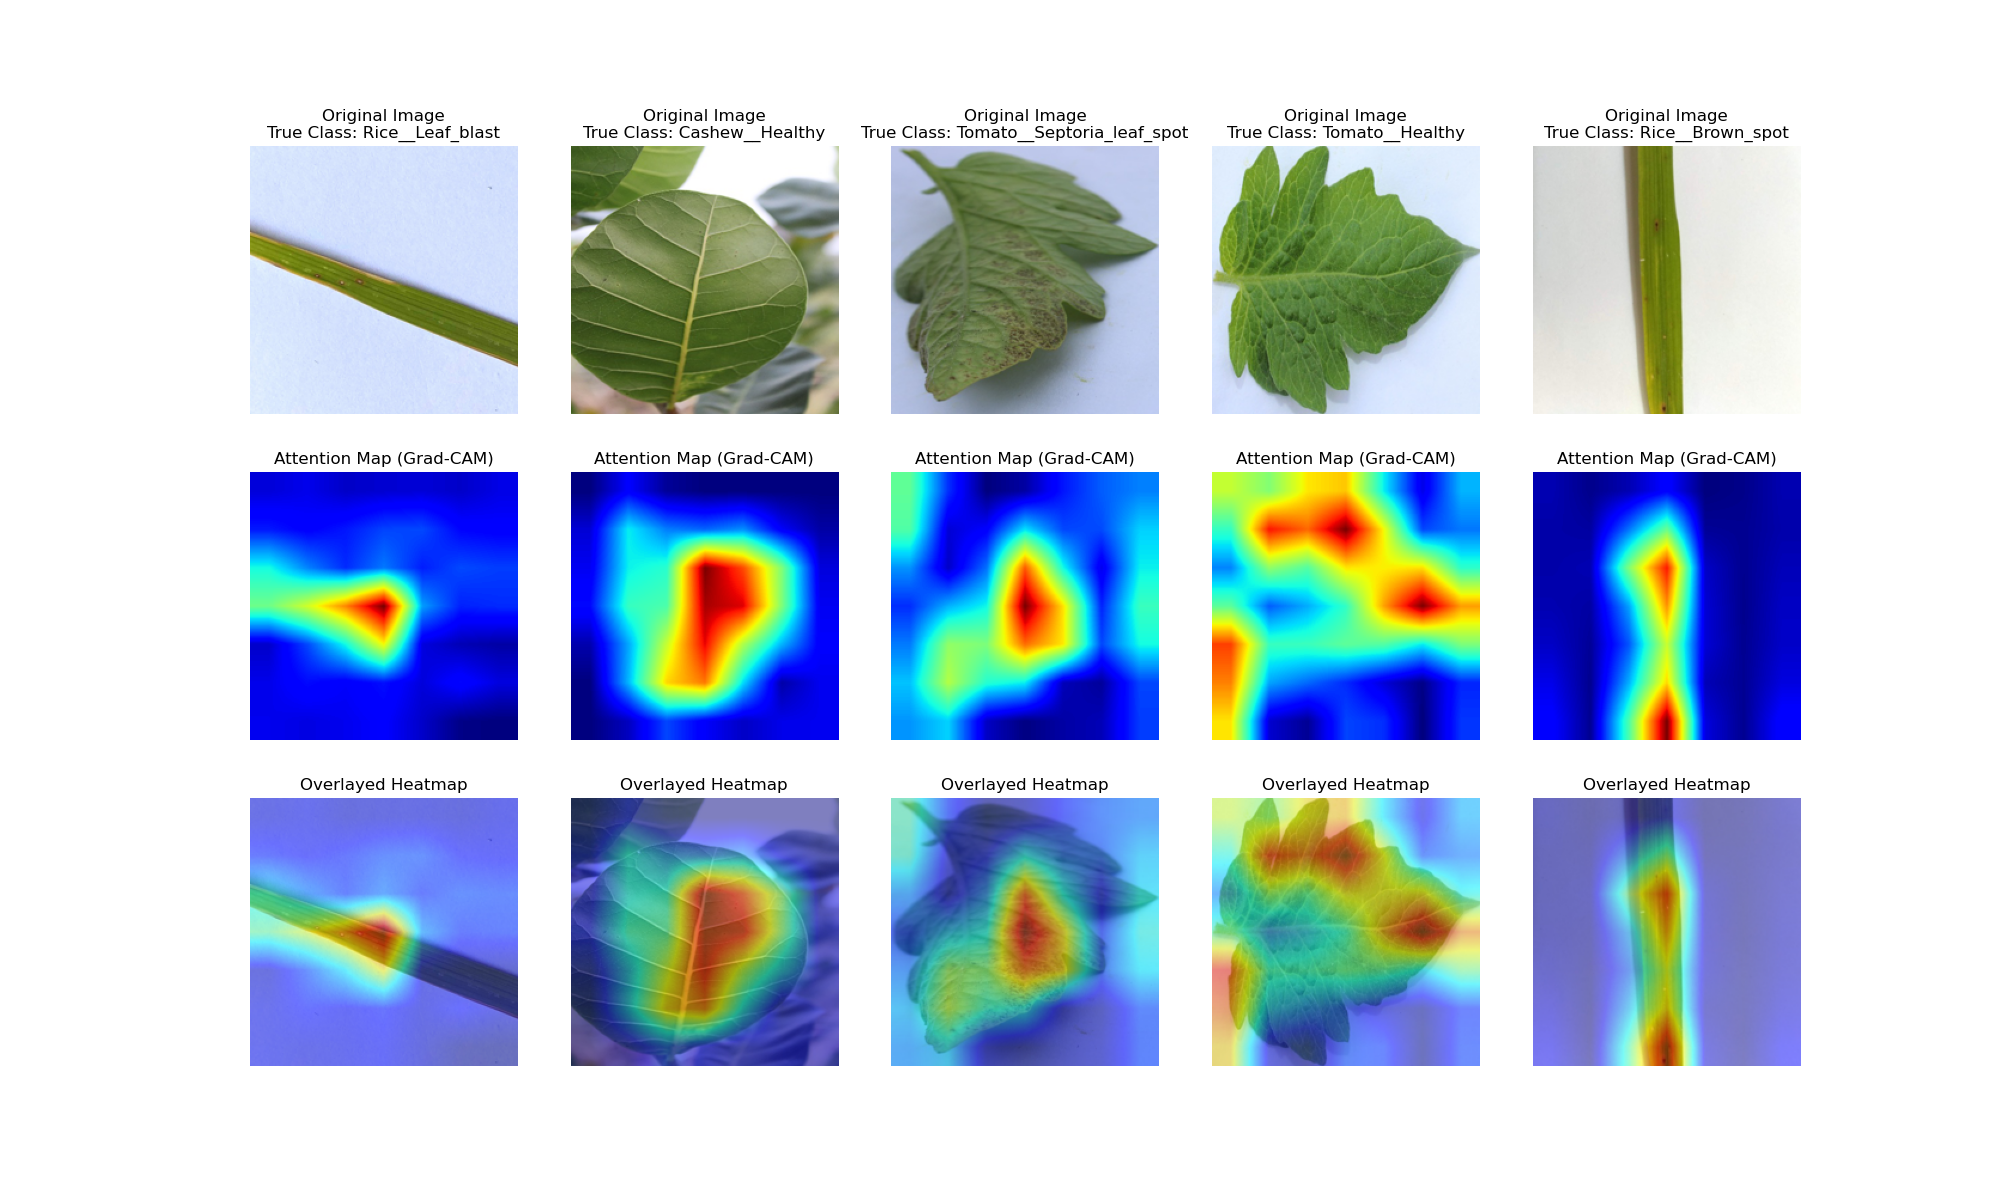
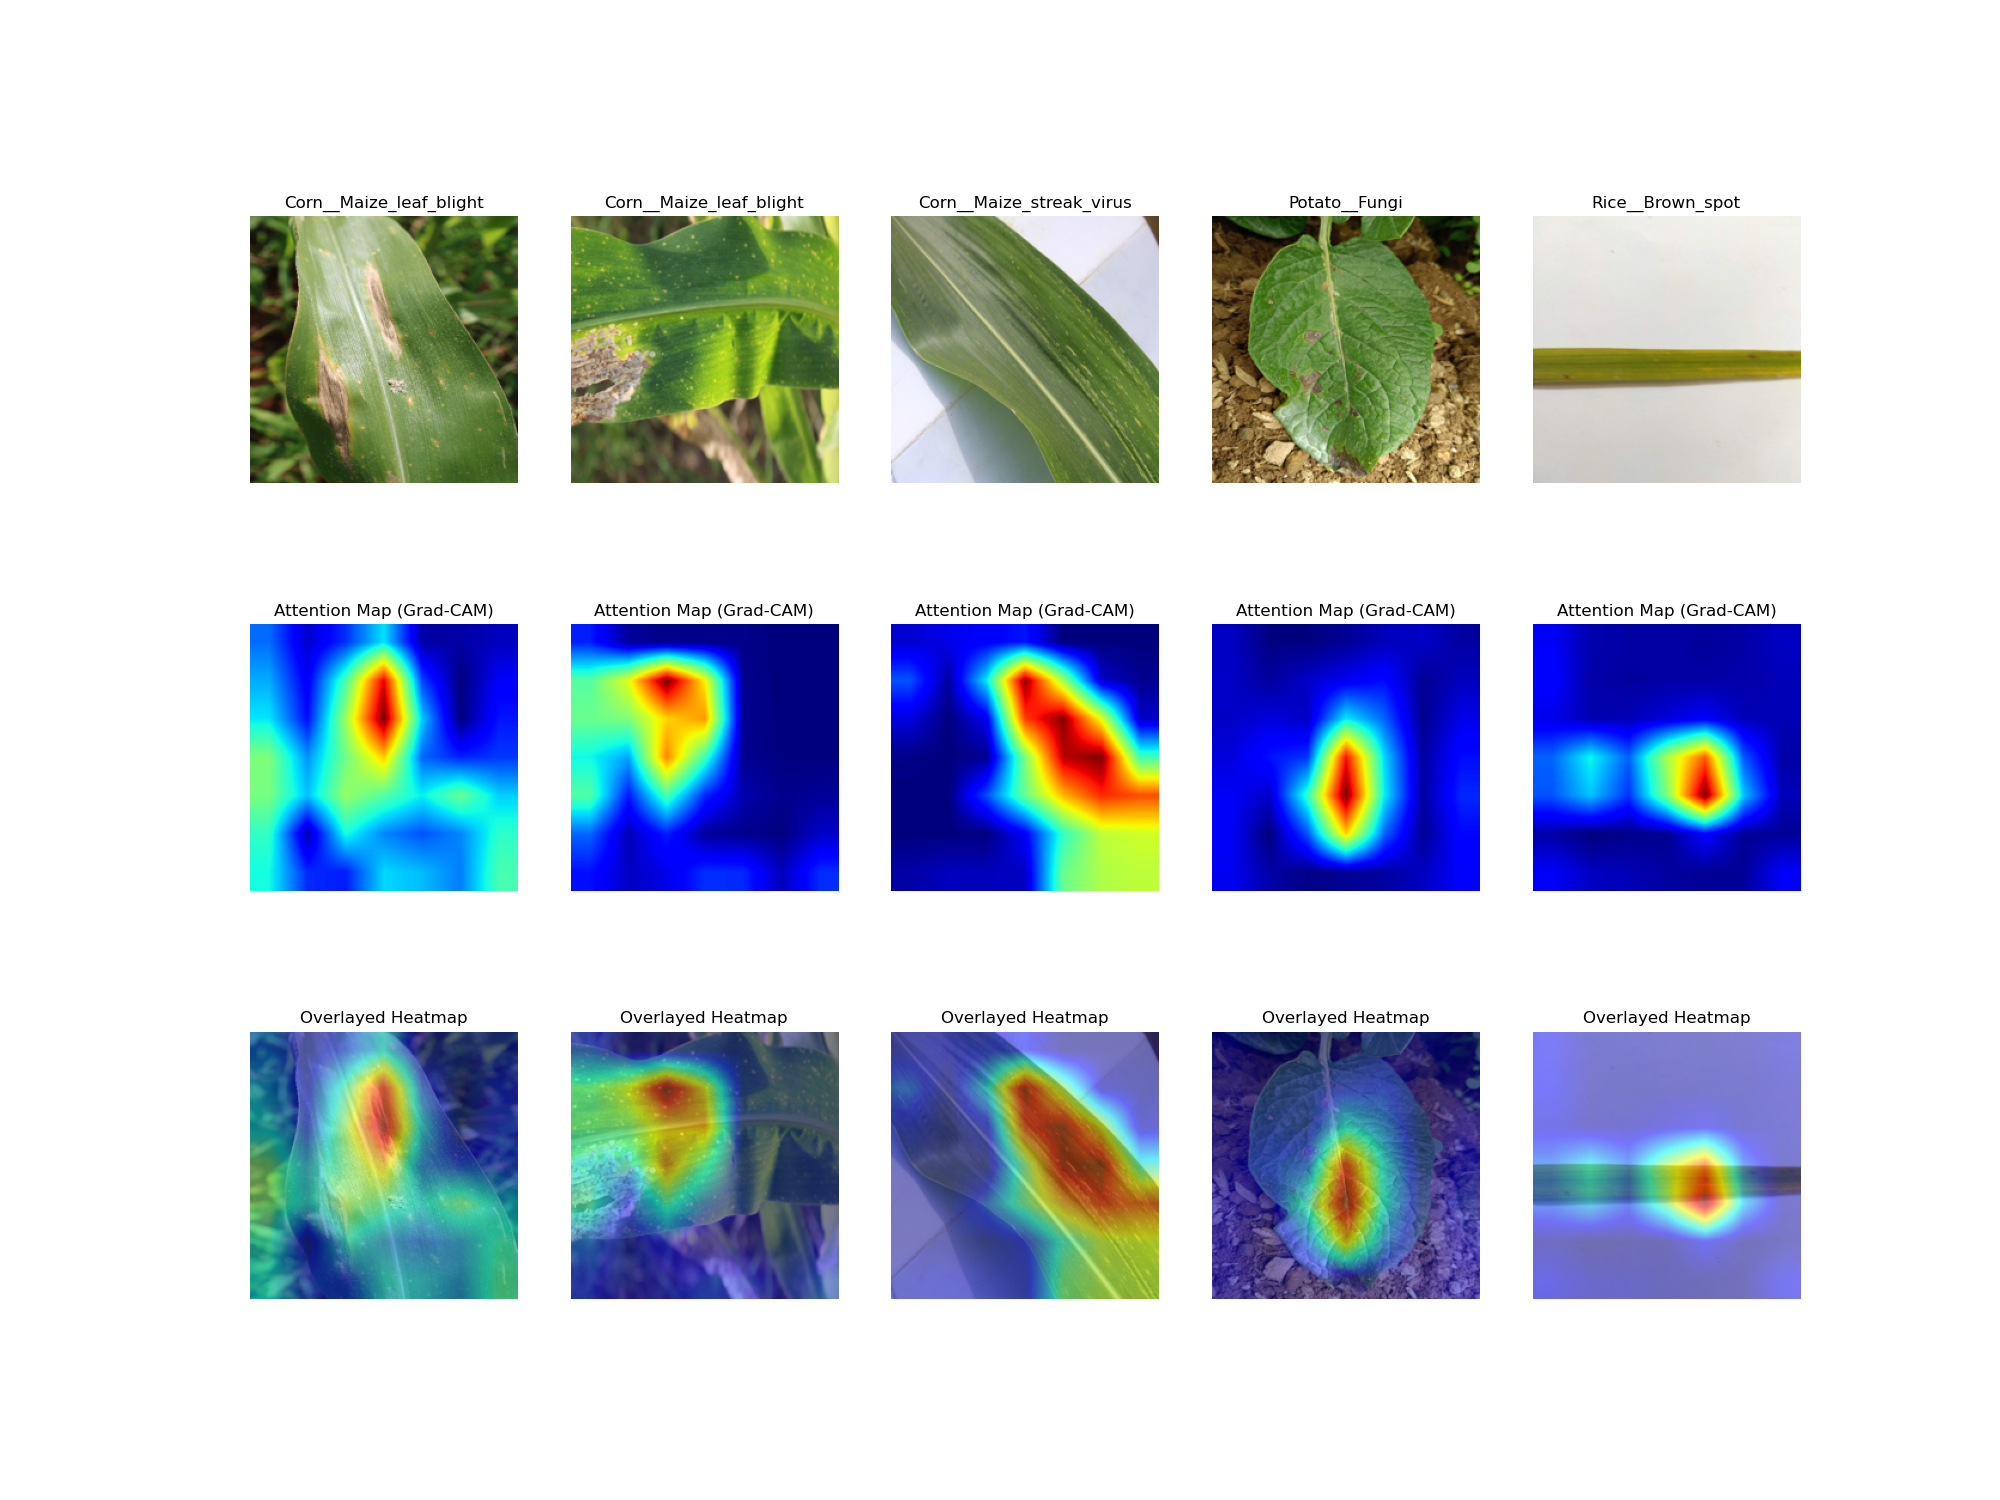
Attention map only displays unhealthy crops

diff --git a/attention_map.py b/attention_map.py
@@ -32,7 +32,8 @@ model.eval()
 # 3. Get 5 random sample images
 data_dir = Path(config['dataset_dir'])
 all_images = list(data_dir.rglob('*.jpg')) + list(data_dir.rglob('*.png')) + list(data_dir.rglob('*.jpeg'))
-sample_img_paths = random.sample(all_images, 5)
+unhealthy_images = [img for img in all_images if 'Healthy' not in img.parent.name]
+sample_img_paths = random.sample(unhealthy_images, 5)
 
 # 4. Setup Grad-CAM from the library
 # The target layer is the last convolutional block in EfficientNet
@@ -42,7 +43,7 @@ target_layers = [model.features[-1]]
 cam_generator = GradCAM(model=model, target_layers=target_layers)
 
 # 5. Plotting Grid
-fig, axes = plt.subplots(3, 5, figsize=(20, 12))
+fig, axes = plt.subplots(3, 5, figsize=(20, 15))
 
 for idx, sample_img_path in enumerate(sample_img_paths):
     true_label = sample_img_path.parent.name
@@ -63,7 +64,7 @@ for idx, sample_img_path in enumerate(sample_img_paths):
 
     # Original Image
     axes[0, idx].imshow(img_np)
-    axes[0, idx].set_title(f'Original Image\nTrue Class: {true_label}')
+    axes[0, idx].set_title(true_label)
     axes[0, idx].axis('off')
 
     # Raw Attention Map